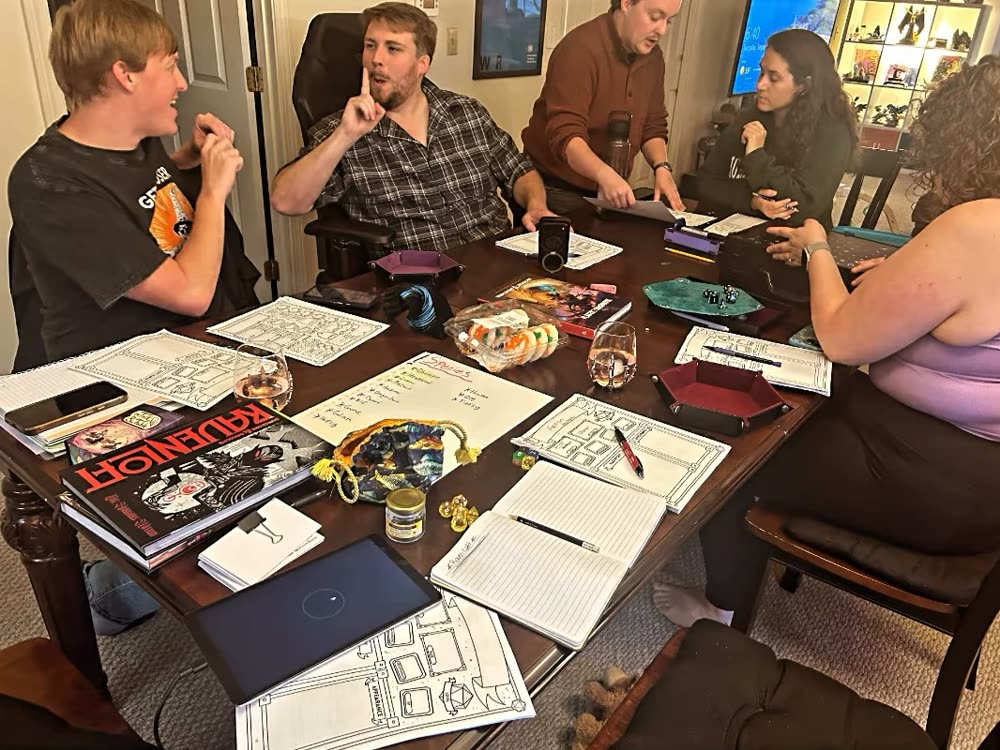
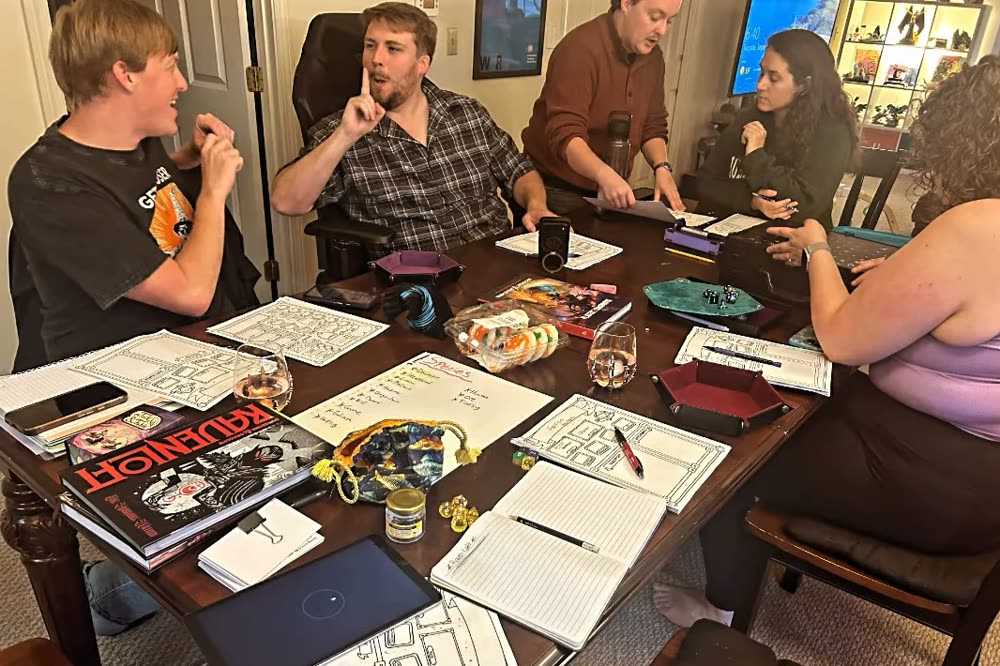
house-share: recrop D&D and fire pit photos; shorter music room and welcome text

diff --git a/public/house-share/index.html b/public/house-share/index.html
@@ -514,7 +514,7 @@
               src="/house-share/photos/fire-pit.jpg"
               alt="A round stone fire pit on a stone patio, with chairs around it and woods behind"
               width="900"
-              height="676"
+              height="506"
               loading="lazy"
             />
             <h3><span class="icon" aria-hidden="true">🔥</span> Fire pit nights</h3>
@@ -600,14 +600,14 @@
               src="/house-share/photos/dnd-night.jpg"
               alt="Friends around a table covered in character sheets, dice and snacks, mid D&amp;D game"
               width="1000"
-              height="750"
+              height="666"
               loading="lazy"
             />
             <h3>
               <span class="icon" aria-hidden="true">🎸</span> A music and games room
               (coming soon)
             </h3>
-            <p>Once the basement's done. Bring an instrument or a board game.</p>
+            <p>Once the basement is finished</p>
           </article>
           <article class="card">
             <img
@@ -619,7 +619,7 @@
               loading="lazy"
             />
             <h3><span class="icon" aria-hidden="true">🐶</span> The welcome committee</h3>
-            <p>Pancho and Lio can't wait to meet you.</p>
+            <p>The boys will see you in</p>
           </article>
         </div>
       </section>
